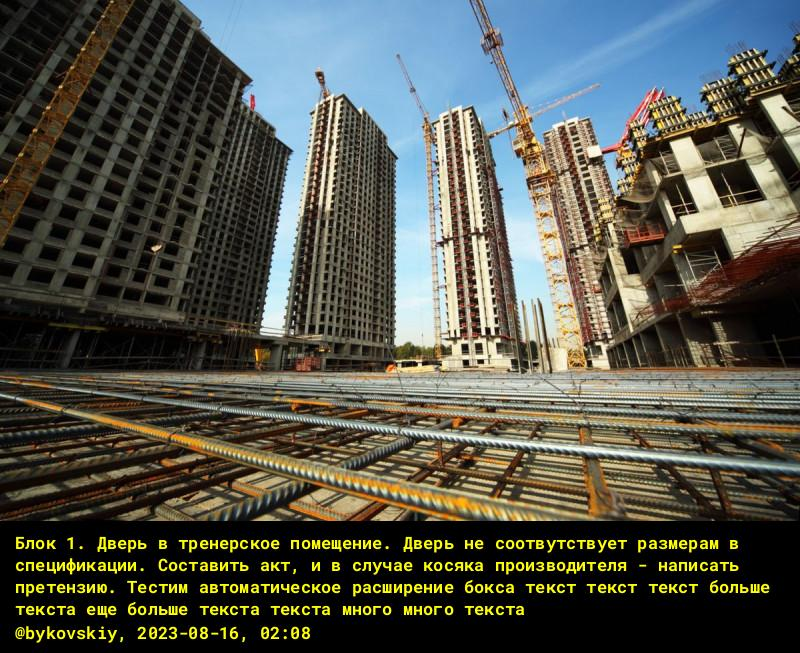
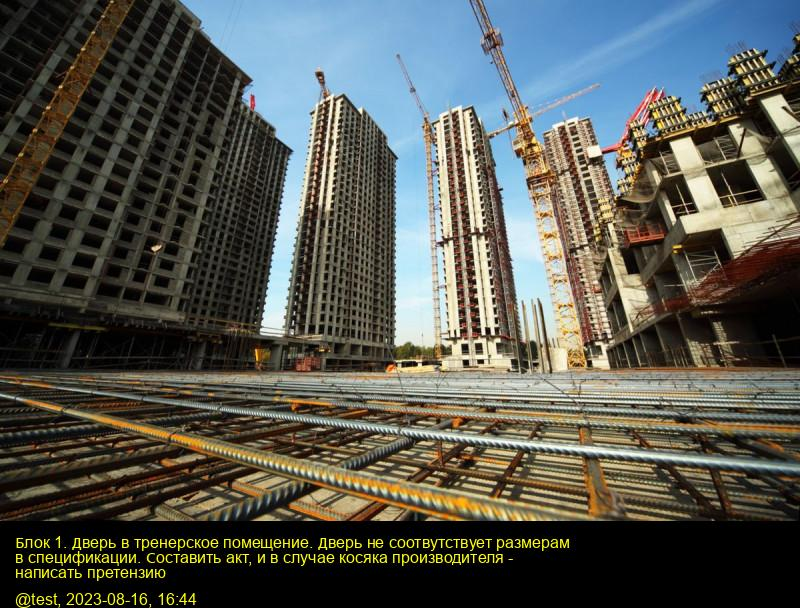
update

diff --git a/main.py b/main.py
@@ -5,109 +5,67 @@ import sys
 from datetime import datetime
 from PIL import Image, ImageDraw, ImageFont
 
-font_chars = 'АаБбВвГгДдЕеЁёЖжЗзИиЙйКкЛлМмНнОоПпСсТтУуФфХхЦцЧчШшЩщЪъЫыЬьЭэЮюЯяabcdefghijklmnopqrstuvwxyzABCDEFGHIJKLMNOPQRSTUVWXYZ'
+def get_box_sizes(text, font):
+    (width, baseline), _ = font.font.getsize(text)
 
-def get_text_wrapper(font, image, text):
-    avg_chat_width = sum(font.getbbox(char)[2] for char in font_chars) / len(font_chars)
-    max_char_count = int((image.size[0] * .95) / avg_chat_width )
-    text = textwrap.fill(text=text, width=max_char_count)
-    
-    return text, max_char_count
+    return baseline
 
-def add_message(image, text, font, text_color, text_start_height, fontsize, spacing, padding_left):
-    draw_img = ImageDraw.Draw(image)
-    y_text = text_start_height
-    
-    # text = textwrap.fill(text=text, width=60)
-    # print(text)
-    #
-    #
-    # avg_chat_width = sum(font.getbbox(char)[2] for char in font_chars) / len(font_chars)
-    # max_char_count = int((image.size[0] * .95) / avg_chat_width )
-    # text = textwrap.fill(text=text, width=max_char_count)
-    text, max_char_count = get_text_wrapper(font, image, text)
-    draw_img.text((padding_left, y_text), text, font=font, fill=text_color, align='left')
-    
-    # lines = textwrap.wrap(text, width=image.width // 10)
-    
-    # for line in lines:
-    #     draw_img.text((padding_left, y_text), 
-    #               line, font=font, fill=text_color)
-    #     y_text += fontsize*spacing
-        
-    #return y_text
-    print(y_text + fontsize*spacing*math.ceil((len(text) / max_char_count)))
-    return y_text + fontsize*spacing * math.ceil((len(text) / max_char_count))
-    
-def get_marking_data(message_sender):
+def get_message_data(message_sender):
     current_time = datetime.now()
-    
+
     date = current_time.strftime('%Y-%m-%d')
     timer = current_time.strftime('%H:%M')
-    
+
     text = f'@{message_sender}, {date}, {timer}'
     return text
 
-def get_extra_space_size(message_sender, font, image, fontsize, spacing):
-    text = get_marking_data(message_sender)
-    text, max_char_count = get_text_wrapper(font, image, text)
-    
-    return fontsize*spacing * math.ceil((len(text) / max_char_count)) * 3
-    
+def add_main_text(text, font, text_color, image, padding_left, start_position, padding_top):
+    draw_img = ImageDraw.Draw(image)
+    y_text = start_position + padding_top
 
-def make_wrapper(font, fontsize, text, image, spacing, padding_bottom, padding_top, extra_space_size):
-    sender_mark_space = extra_space_size + padding_bottom + padding_top
-    
-    #lines = textwrap.wrap(text, width=image.width // 10)
-    
-    text, max_char_count = get_text_wrapper(font, image, text)
-    #extra_bound_size = 0
-    # for _ in lines:
-    #     extra_bound_size += fontsize*spacing
-    extra_bound_size = sender_mark_space + fontsize*spacing * math.ceil((len(text) / max_char_count))
-        
-    wrapper = Image.new("RGB", (image.width, image.height + int(extra_bound_size)), "black")
-    wrapper.paste(image, (0,0))
-    
-    return wrapper, extra_bound_size
+    for line in text:
+        draw_img.text((padding_left, y_text),
+              line, font=font, fill=text_color)
+        y_text += get_box_sizes(line, font)
 
+    return y_text
 
+def add_sender_text(text, font, text_color, image, padding_left, start_position, padding_top):
+    draw_img = ImageDraw.Draw(image)
+    y_text = start_position + padding_top
 
-def sender_mark(image_wrapper, message_sender, text_start, font, text_color, padding_left, fontsize,spacing):
-    #current_time = datetime.now()
-    #text_top_padding = 5
-    
-    # date = current_time.strftime('%Y-%m-%d')
-    # timer = current_time.strftime('%H:%M')
-    
-    # text = f'@{message_sender}, {date}, {timer}'
-    text = get_marking_data(message_sender)
-    #lines = textwrap.wrap(text, width=image_wrapper.width//10)
-    
-    draw_img = ImageDraw.Draw(image_wrapper)
-    
-    #y_text = text_start # + text_top_padding
-    # for line in lines:
-    #     draw_img.text((padding_left, y_text), 
-    #               line, font=font, fill=text_color)
-    #     y_text += fontsize*spacing
-    text, max_char_count = get_text_wrapper(font, image_wrapper, text)
-    y_text = text_start + fontsize*spacing * math.ceil((len(text) / max_char_count))
-    
-    draw_img.text((padding_left, y_text), text, font=font, fill=text_color, align='left')
+    for line in text:
+        draw_img.text((padding_left, y_text),
+                      line, font=font, fill=text_color)
+        y_text += get_box_sizes(line, font)
 
-def get_dynamic_fontsize(image, text, font_name):
-    font_size = 17
-    font = ImageFont.truetype(f"./fonts/{font_name}.ttf", font_size)
+def make_text_wrapper(main_text, sender_text, font, image, text_color, padding_left, padding_top):
+    main_lines = textwrap.wrap(main_text)
+    sender_lines = textwrap.wrap(sender_text)
 
-    print(font.getbbox(text))
-    while font.getbbox(text)[2] - font.getbbox(text)[0] < image.width:
-        font_size += 1
-        font = ImageFont.truetype(f"./fonts/{font_name}.ttf", font_size)
-    
-    font_size -= 1
-    print("font: ", font_size)
-    return font, font_size
+    main_lines_height = 0
+    for line in main_lines:
+        main_lines_height += get_box_sizes(line, font)
+
+    sender_lines_height = 0
+    for line in sender_lines:
+        sender_lines_height += get_box_sizes(line, font)
+
+    sum_heights = main_lines_height + sender_lines_height
+    all_paddings = padding_top * 2
+    wrapper = Image.new("RGB", (image.width, sum_heights + all_paddings), "black")
+
+    end_height = add_main_text(main_lines, font, text_color, wrapper, padding_left, 0, padding_top)
+    add_sender_text(sender_lines, font, text_color, wrapper, padding_left, end_height, padding_top)
+
+    return wrapper
+
+def combine_images(image, text_wrapper):
+    image_wrapper = Image.new("RGB", (image.width, image.height + text_wrapper.height), "white")
+    image_wrapper.paste(image, (0, 0))
+    image_wrapper.paste(text_wrapper, (0, image.height))
+
+    return image_wrapper
 
 def main():
     image_name = sys.argv[1]
@@ -117,30 +75,25 @@ def main():
         text = sys.argv[3]
     else:
         text = 'Блок 1. Дверь в тренерское помещение. Дверь не соотвутствует размерам в спецификации. Составить акт, и в случае косяка производителя - написать претензию'
-    
-    #fontsize = 16
-    font_name = 'robotomono-bold'
-    #font = ImageFont.truetype(f"./fonts/{font_name}.ttf", fontsize)
-    text_color = (255,255,0)
-    padding_top = 10
-    padding_bottom = 10
-    padding_left = 15
-    text_top_padding = 10
-    spacing = 1
-    
-    image = Image.open(f'./images/{image_name}')
-    font, fontsize = get_dynamic_fontsize(image, text, font_name)
-    
-    extra_space_size = get_extra_space_size(message_sender, font, image, fontsize, spacing)
-    
-    image_wrapper, bound_size = make_wrapper(font, fontsize, text, image, spacing, padding_bottom, padding_top, extra_space_size)
-    text_start_height = image_wrapper.height - int(bound_size) + padding_top
-    
-    text_end_line = add_message(image_wrapper, text, font, text_color, text_start_height, fontsize, spacing, padding_left)
-    sender_mark(image_wrapper, message_sender, text_end_line + text_top_padding, font, text_color, padding_left, fontsize, spacing)
-    
-    image_wrapper.save(f'./results/{image_name}')
 
-    
+    font_name = 'arial'
+    text_color = (255, 255, 0)
+    padding_left = 15
+    padding_top = 15
+
+    image = Image.open(f'./images/{image_name}')
+
+    fontsize = image.size[0] * 0.02
+    if fontsize < 12:
+        fontsize = 12
+    font = ImageFont.truetype(f"./fonts/{font_name}.ttf", fontsize)
+
+    sender_text = get_message_data(message_sender)
+
+    text_wrapper = make_text_wrapper(text, sender_text, font, image, text_color, padding_left, padding_top)
+    resulting_image = combine_images(image, text_wrapper)
+
+    resulting_image.save(f'./results/{image_name}')
+
 if __name__ == "__main__":
     main()
